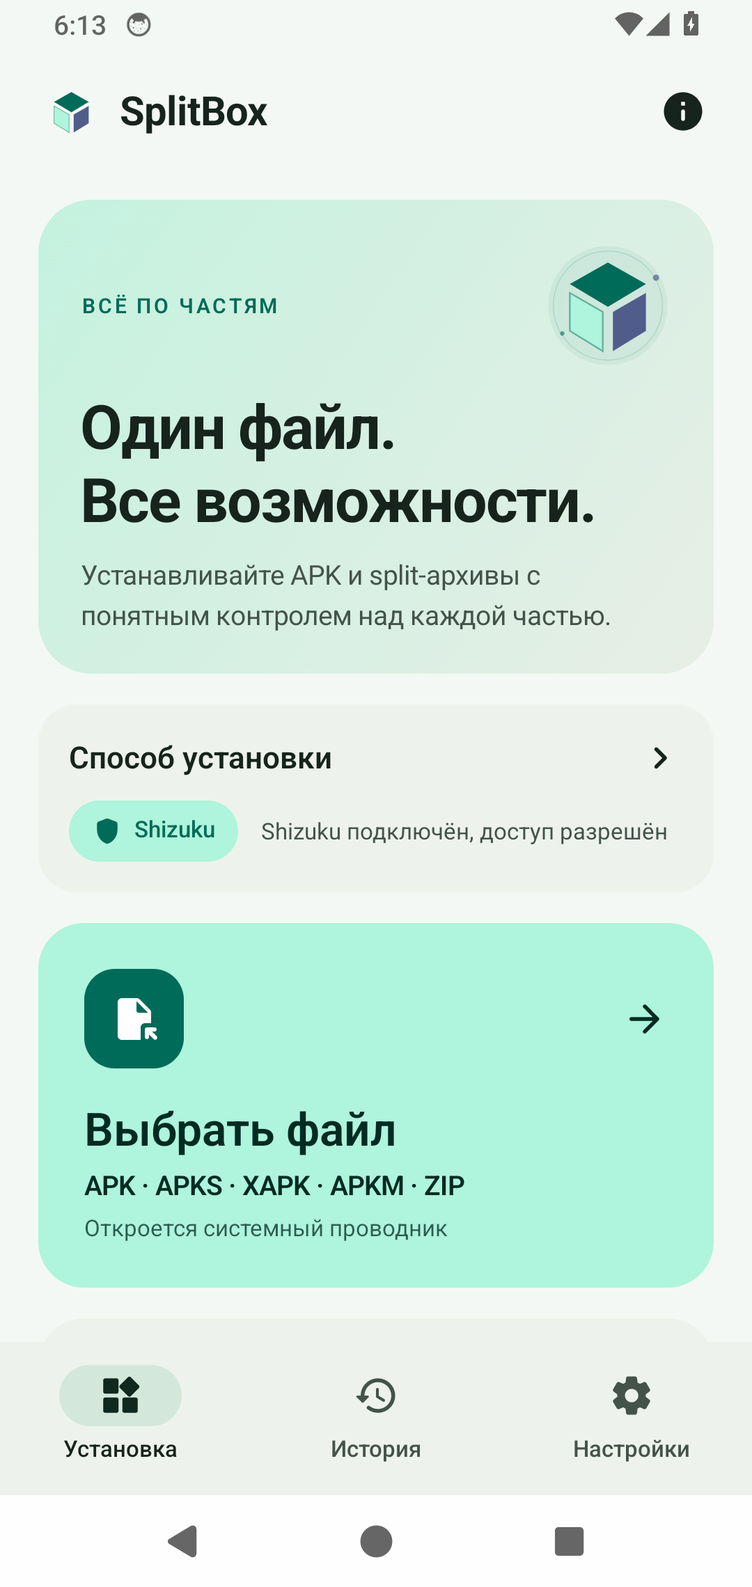
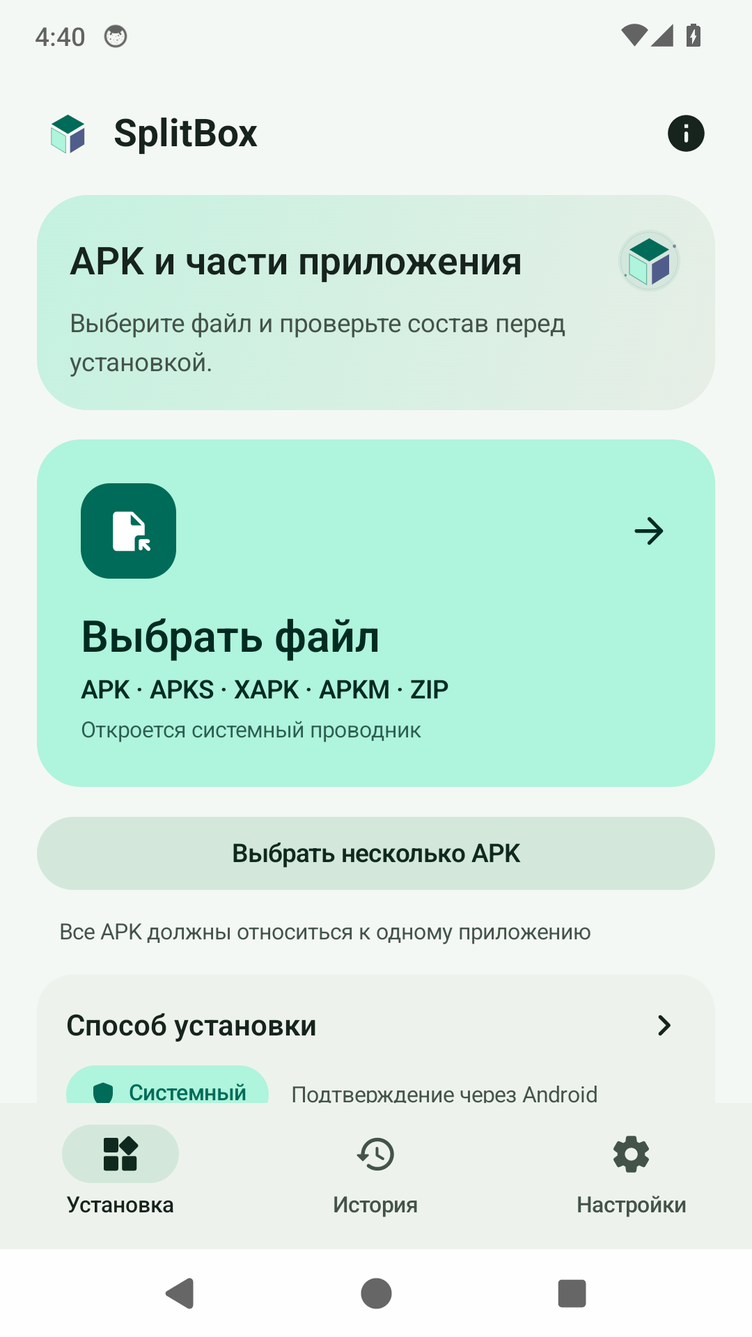
Обновлена документация и результаты проверок релиза 1.1

diff --git a/docs/VERIFICATION.md b/docs/VERIFICATION.md
@@ -1,3 +1,51 @@
+# Проверки SplitBox 1.1
+
+Дата: **14 октября 2026**. Версия **1.1**, `versionCode 5`, Android 14+ (minSdk 34 / target SDK 36). Публичный тег: [v1.1](https://github.com/AnoY606-git/SplitBox/releases/tag/v1.1).
+
+## Автоматические проверки
+
+Полный локальный прогон `:core:test :app:testDebugUnitTest :app:lintDebug :app:lintRelease :app:assembleDebug :app:assembleRelease :fixture:assembleDebug :app:compileBenchmarkKotlin :app:compileProfileGenerationKotlin` — **BUILD SUCCESSFUL**. Прошли **203 JVM-теста** (core 77, app 126) и **12 Python-тестов**, без failures/errors/skipped. Lint debug/release: **0 ошибок / 5 прежних предупреждений** в каждом варианте (`UseKtx` × 4, `ObsoleteSdkInt` × 1). Новых зависимостей и Android permissions нет.
+
+Для новых функций добавлены проверки общих лимитов staging, одинаковых имён, принадлежности и symlinks, отмены, выбора/поиска, пересечения фильтров истории, отчёта, числовых версий Long, SDK-деклараций разрешений, неполных старых данных и отмены запросов инспектора. Независимое ревью и Android QA выявили и помогли устранить три регрессии: канонизация `/data/user/0` → `/data/data`, допустимые неположительные `maxSdkVersion` и совпадение имени разрешения со служебным ключом списка. Две первые воспроизводились падающими регрессионными тестами, последняя проверена настоящим APK с разрешением `search`.
+
+## Подписанный APK
+
+- Размер: **2 734 556 байт** (около 2,61 МиБ).
[2 lines of base64/hex data omitted]
+- `apksigner verify` и APK audit: package/version/SDK, точный набор разрешений, ZIP CRC, alignment и legal assets. INTERNET и MANAGE_EXTERNAL_STORAGE отсутствуют.
+
+## Android 14: проверка приложения
+
+Использован отдельный AOSP API 34 x86_64 AVD `splitbox-1-1-api34`, KVM, 2 CPU / 2048 MiB RAM, 1080×1920 / density 420. Личный Waydroid не использовался. Исходно установлен публичный APK 1.0 (сборка 4), создана реальная успешная System-установка и запись истории. Обновление на подписанную 1.1 прошло без удаления данных; история сохранилась. Исправления проверялись на R8 release APK с постоянным сертификатом. После финальных сценариев crash buffer пуст; Package Manager подтвердил versionName 1.1 / versionCode 5.
+
+| Сценарий | Результат |
+| --- | --- |
+| Множественный выбор SAF | Через кнопку «Выбрать несколько APK» отмечены base и density, подготовлен и установлен весь набор |
+| Несколько APK из внешнего приложения | Base + density с одинаковым displayName, повторный URI: подготовлены ровно 2 APK; файлы не перезаписывают друг друга |
+| Только ClipData | ACTION_SEND_MULTIPLE без EXTRA_STREAM корректно импортирует оба APK |
+| Холодное восстановление набора | После force-stop сохранены оба APK и выбор; SHA-256 единственного исходного файла для набора не заявляется |
+| Разные приложения в наборе | Подготовка отклонена до установки, backend не запускается |
+| Поиск частей + выбранные | Поиск `xxhdpi` показывает 1 из 2, закреплённый установочный счётчик остаётся 2 из 2 |
+| System | Реальная установка base + density через Android подтверждена Package Manager |
+| Shizuku | Shizuku 13.6.0.r1086, shell UID, явное разрешение: реальная установка base + density завершена, результат сохранён в истории |
+| Сведения о пакете | Входные версии 3/2/1 при установленной 2 показаны как обновление / та же версия / версия ниже; поиск разрешений, SDK 23 и maxSdk 32; после cold restore сохранились также maxSdk 0/-1 |
+| Граничное имя разрешения | APK с декларацией `search`: строка отображается одновременно с поиском, сбоя duplicate key нет |
+| История | Реальная отмена Android дала отказ; фильтры статуса/способа, пустой результат и сброс работают |
+| Крупный шрифт | При 150% доступны основная кнопка установки, прокрутка и закрытие инспектора, фильтры истории; после проверки масштаб возвращён к 100% |
+| Отчёт | После предпросмотра и копирования весь текст (293 символа) точно совпал при вставке через Android clipboard |
+
+Проверки используют собственные маленькие APK и отдельный testOnly sender; эти вспомогательные приложения не входят в релиз или архив исходников. Реальный `PermissionSnapshot` дополнительно проверен холодным восстановлением APK с известными декларациями; nullable старые данные покрыты JVM-моделью и ревью codec.
+
+## Пределы проверки
+
+Реальный Magisk/KernelSU, физический ARM, Android 15/16, OEM/work profiles, многогигабайтные пакеты и 16 KiB runtime не испытывались в этом выпуске. Root использует существующий проверяемый протокол, но проверка на AOSP не заменяет root manager на телефоне. Новый benchmark-прогон производительности не выполнялся; числа прежнего выпуска ниже остаются историческими. Уменьшение копирования набора APK следует из потокового пути без промежуточного ZIP и не объявляется измеренным ускорением на всех устройствах.
+
+Статус публикационного CI доступен в [Actions](https://github.com/AnoY606-git/SplitBox/actions/workflows/ci.yml). Воспроизведение — [TESTING](TESTING.md), контракты — [ARCHITECTURE](ARCHITECTURE.md).
+
+<details>
+<summary>Архив: проверки SplitBox 1.0</summary>
+
 # Проверки SplitBox 1.0
 
 ## Сборка 4: исправления после аудита
@@ -108,5 +156,7 @@ JVM-проверки охватывают архивы, metadata/targeting, со
 Установка через реальный Magisk/KernelSU, физический ARM, Android 15/16 runtime, OEM/work profiles, многогигабайтный stress test и runtime 16 KiB не проверены. 16 KiB alignment APK/ELF проверяется статически при упаковке и не доказывает работу на соответствующем ядре. При шрифте 200% выполнена визуальная проверка, но речь и полный маршрут TalkBack на устройстве не проверялись; семантика этапов/заголовков проверена по коду.
 
 Статус каждого GitHub-прогона доступен в [Actions](https://github.com/AnoY606-git/SplitBox/actions/workflows/ci.yml). Локальные проверки и эмуляторные числа не заменяют испытания на реальных устройствах. [TESTING](TESTING.md) описывает воспроизведение, [ARCHITECTURE](ARCHITECTURE.md) — контракты сохранения/восстановления и честный UNKNOWN без автоматического повторного commit.
+
+</details>
 
 </details>

diff --git a/docs/ARCHITECTURE.md b/docs/ARCHITECTURE.md
@@ -6,11 +6,11 @@
 
 ```mermaid
 flowchart TD
-  URI[SAF / VIEW / SEND] --> ACT[MainActivity]
+  URI[SAF / VIEW / SEND / SEND_MULTIPLE] --> ACT[MainActivity]
   ACT --> VM[SplitBoxViewModel]
   UI[Compose UI] <--> VM
-  VM --> ST[PackageStager / SourceCopier]
-  ST --> CORE[ArchivePreparer / SplitSelector]
+  VM --> ST[PackageImporter / Stagers / SourceCopier]
+  ST --> CORE[ArchivePreparer / StagedApkPreparer / SplitSelector]
   VM --> SNAP[PreparedSnapshot / RevisionedSaveQueue]
   VM --> VALID[SelectionValidator: Default]
   VM --> REG[BackendRegistry]
@@ -35,6 +35,14 @@ ViewModel собирает зависимости, управляет текущ
 Каждая операция владеет уникальным закрытым `workDir`. Для raw APK core повторно использует только собственный `workDir/source.bin`: обычный файл без symlink, с проверенной canonical принадлежностью. Этот source остаётся доступен для checkpoint и permission recovery. Внешний raw source копируется в выходной каталог; core не удаляет входной файл. Архивы проходят обычную распаковку с проверками paths, CRC, дубликатов, размеров, metadata и принадлежности OBB. Повторное использование файла не отменяет manifest, signature и selection checks.
 
 `CacheSizeIndex.bytes()` возвращает последнее значение из памяти. Полный `rescan`, обновление одного каталога и удаление выполняются на IO, под общей синхронизацией: старый scan не должен перезаписать более новое изменение индекса. Обновляется каталог текущей операции, а не всё дерево после каждого действия. Начальное сканирование запускается независимо от восстановления journal: медленный cache не задерживает доставку результата установки. Значение индекса отражает известное состояние; внешние изменения обнаруживаются при следующем сканировании.
+
+## Импорт отдельных APK
+
+`ImportSelection` нормализует точные URI, сохраняет порядок и ограничивает множественный запрос 128 уникальными источниками. Один URI проходит обычный путь APK/архива. Для набора `PackageImporter` вызывает `MultiApkStager`: каждый поток копируется один раз с оставшимся общим байтовым бюджетом. Имена provider используются только для отображения; физические файлы имеют фиксированные имена внутри уникального рабочего каталога.
+
+`StagedApkPreparer` проверяет принадлежность файлов, отсутствие символических ссылок и повторов, затем использует общий `ApkInspector`, identity validation и `SplitSelector`. Вложенные архивы в таком наборе не распаковываются. Подписи проверяются обычным путём. Промежуточного ZIP нет; SHA-256 исходного файла для набора не показывается, поскольку единственного файла нет.
+
+READY checkpoint хранит все staged paths. Если `source.bin` отсутствует, permission journal и восстановление используют сохранённый базовый APK. Набор относится к одному приложению: очередь установок разных пакетов здесь не создаётся.
 
 ## Выбор частей и READY checkpoint
 
@@ -85,6 +93,14 @@ Cold restore использует запись и уже сохранённый 
 
 Экспорт OBB через `runObbExport` сохраняет исходную фазу, включая UNKNOWN и его журнал. В `finally` для того же пакета и выбора сверяются актуальные результаты очереди и валидатора; поздний итог Android не заменяется старым снимком. Отмена COPYING прерывает локальный Job до обращения к журналу установки. Успех, ошибка и отмена экспорта проходят один путь восстановления.
 
+## Поиск, история и сведения о пакете
+
+Поиск частей и переключатель «только выбранные» фильтруют представление `SplitPresentation`, не меняя `selectedPaths`, валидацию или общий счётчик установки. Запрос сохраняется при смене вкладок и сбрасывается при новом `workDir`. `HistoryPresentation` объединяет поиск, статус и способ установки через AND; `success=null` остаётся отдельным неизвестным исходом. Отчёт строится из выбранной записи и версии SplitBox. Диалог сохраняет неизменяемый текст предпросмотра, который копируется только явным действием пользователя.
+
+`BinaryManifestReader` читает Android-декларации разрешений и их ограничения SDK. `ApkMetadata.requestedPermissions=null` означает неизвестные данные, а пустой список — успешный разбор без деклараций. `PermissionSnapshot` сохраняет это различие: отсутствующее или повреждённое поле старого checkpoint не превращается в «разрешений нет».
+
+`PackageInspectionLoader` получает установленную версию через интерфейс `InstalledPackageReader` и собирает разрешения выбранных APK на IO. Сравниваются `Long` versionCode; `NameNotFoundException` означает «не установлено или недоступно для проверки» из-за Android package visibility. Результат не обещает совместимость подписи или возможность downgrade. Открытие диалога запускает новую проверку; закрытие, смена пакета, выбора или фазы отменяет эффект. После синхронного запроса Package Manager проверяется отмена, чтобы старый ответ не появился в новом диалоге.
+
 ## Общие инварианты
 
 - Входные URI и архивы недоверенные; имена архива не подставляются в shell, пути остаются внутри staging.
@@ -94,3 +110,7 @@ Cold restore использует запись и уже сохранённый 
 - Проверки модели не доказывают поведение конкретного OEM, root manager, физического ARM или 16 KiB runtime.
 
 Карта файлов — [путеводитель](README.md); проверки контрактов — [TESTING](TESTING.md); методика измерений — [benchmark/README](../benchmark/README.md).
+
+## Основания возможностей 1.1
+
+При выборе функций изучены первичные репозитории [SAI](https://github.com/Aefyr/SAI), [InstallerX Revived](https://github.com/wxxsfxyzm/InstallerX-Revived) и [App Manager](https://github.com/MuntashirAkon/AppManager). Для SplitBox выбраны связанные с установкой сценарии: прямой набор APK, сведения до установки, поиск и отчёт. Реализация собственная; код других приложений не переносился. Ограничения видимости установленных пакетов учитывают [Android package visibility](https://developer.android.com/training/package-visibility/declaring).

diff --git a/docs/RELEASING.md b/docs/RELEASING.md
@@ -2,7 +2,7 @@
 
 ## Версия и проверки
 
-`gradle.properties` — единственный источник версии. Текущее приложение: versionName `1.0`, versionCode `4`. У каждого выпускаемого обновления повышайте versionCode. versionName допускает `major.minor`, `major.minor.patch` и суффикс prerelease. Обновляйте CHANGELOG и выполняйте команду из [TESTING](TESTING.md) в чистом checkout.
+`gradle.properties` — единственный источник версии. Текущее приложение: versionName `1.1`, versionCode `5`. У каждого выпускаемого обновления повышайте versionCode. versionName допускает `major.minor`, `major.minor.patch` и суффикс prerelease. Обновляйте CHANGELOG и выполняйте команду из [TESTING](TESTING.md) в чистом checkout.
 
 CI (`.github/workflows/ci.yml`) выполняет source checks, Python/JVM tests, lint, debug/unsigned release и fixture build; проверяет APK policy и сохраняет результаты на 14 дней. Actions закреплены на commit SHA, permissions ограничены contents:read, checkout не сохраняет credentials. CI не публикует Release и не получает production signing secrets.
 
@@ -45,7 +45,7 @@ python3 scripts/package.py --apk app/build/outputs/apk/release/app-release-unsig
 
 `SHA256SUMS` описывает только артефакты текущей команды: source ZIP и, при явном APK, этот APK и `<имя APK>.signature.txt`. Старые файлы из той же папки не подхватываются. Source ZIP включает Wrapper/JAR, CI, исходники и пять binary fixtures; SDK, keys, caches, logs и host metadata исключены. ZIP entries нормализованы для повторяемой упаковки исходников; побитовая воспроизводимость APK не заявляется.
 
-Для каждого релиза используйте отдельную папку. В публичную поставку включите подписанный APK, соответствующие исходники, signature record, SHA256SUMS и заметки с проверенными сценариями/ограничениями. Сохраните LICENSE/NOTICE/авторство и уведомления зависимостей. Перед публикацией отдельно проверьте установку и обновление на устройстве. В заметках разделяйте настоящие APK fixtures и синтетические UI-наборы, emulator smoke и измерения на физическом устройстве. Не заявляйте physical ARM/Magisk/16 KiB runtime или выигрыш производительности без соответствующего прогона и исходных результатов. Версия `1.0` / code `4`, GPL-3.0-only и авторство AnoY606-git должны совпадать в APK, исходниках и документации.
+Для каждого релиза используйте отдельную папку. В публичную поставку включите подписанный APK, соответствующие исходники, signature record, SHA256SUMS и заметки с проверенными сценариями/ограничениями. Сохраните LICENSE/NOTICE/авторство и уведомления зависимостей. Перед публикацией отдельно проверьте установку и обновление на устройстве. В заметках разделяйте настоящие APK fixtures и синтетические UI-наборы, emulator smoke и измерения на физическом устройстве. Не заявляйте physical ARM/Magisk/16 KiB runtime или выигрыш производительности без соответствующего прогона и исходных результатов. Версия `1.1` / code `5`, GPL-3.0-only и авторство AnoY606-git должны совпадать в APK, исходниках и документации.
 
 ## Репозиторий и теги
 
@@ -60,3 +60,5 @@ git status --short
 Для изменения используйте свою Git identity и отдельную ветку. После проверок тег `vVERSION` должен указывать на тот же commit, из которого упакованы исходники. Публикуйте APK, source ZIP, signature record и SHA256SUMS вместе с описанием изменений и ограничений. Не загружайте keystore или signing secrets в репозиторий, Release assets и CI artifacts. Создание tag/Release выполняется отдельно и не является действием скрипта упаковки.
 
 Обновление с прежним versionName `1.0` и новым versionCode `4` опубликовано отдельным тегом `v1.0-build4`. Существующие теги и файлы старого релиза не заменяются. Для следующих сборок используйте новый уникальный тег и явно указывайте номер сборки в заголовке релиза.
+
+Релиз 1.1 использует тег `v1.1`, versionCode `5` и файлы `SplitBox-1.1.apk`, `SplitBox-1.1-source.zip`, `SplitBox-1.1.apk.signature.txt`, `SHA256SUMS`. Обновление с 1.0 сохраняет постоянный сертификат издателя.

diff --git a/docs/README.md b/docs/README.md
@@ -1,6 +1,6 @@
 # Путеводитель разработчика
 
-SplitBox 1.0 — Android-приложение с отдельным JVM-ядром. Для первой задачи достаточно собрать debug, пройти путь импорта собственного fixture и определить слой изменения по таблице ниже.
+SplitBox 1.1 — Android-приложение с отдельным JVM-ядром. Для первой задачи достаточно собрать debug, пройти путь импорта собственного fixture и определить слой изменения по таблице ниже.
 
 ## Порядок знакомства
 
@@ -20,8 +20,11 @@ SplitBox 1.0 — Android-приложение с отдельным JVM-ядро
 | Вкладки, тема, окно о приложении | [SplitBoxApp](../app/src/main/java/dev/splitbox/app/ui/SplitBoxApp.kt) |
 | Предпросмотр и список splits | [InstallScreen](../app/src/main/java/dev/splitbox/app/ui/InstallScreen.kt) |
 | Настройки/история | [SettingsScreen](../app/src/main/java/dev/splitbox/app/ui/SettingsScreen.kt), [HistoryScreen](../app/src/main/java/dev/splitbox/app/ui/HistoryScreen.kt) |
+| Сведения о версии и разрешениях | [PackageInspectorDialog](../app/src/main/java/dev/splitbox/app/ui/PackageInspectorDialog.kt), [PackageInspectionLoader](../app/src/main/java/dev/splitbox/app/inspector/PackageInspectionLoader.kt), [PermissionSnapshot](../app/src/main/java/dev/splitbox/app/data/PermissionSnapshot.kt) |
+| Фильтры и отчёт истории | [HistoryPresentation](../app/src/main/java/dev/splitbox/app/ui/HistoryPresentation.kt) |
 | Модели UI и настроек | [Models](../app/src/main/java/dev/splitbox/app/model/Models.kt) |
 | Копирование URI, подписи и staging | [PackageStager](../app/src/main/java/dev/splitbox/app/data/PackageStager.kt), [SourceCopier](../app/src/main/java/dev/splitbox/app/data/SourceCopier.kt) |
+| Импорт нескольких APK | [ImportSelection](../app/src/main/java/dev/splitbox/app/data/ImportSelection.kt), [MultiApkStager](../app/src/main/java/dev/splitbox/app/data/MultiApkStager.kt), [PackageImporter](../app/src/main/java/dev/splitbox/app/data/PackageImporter.kt), [StagedApkPreparer](../core/src/main/kotlin/dev/splitbox/core/StagedApkPreparer.kt) |
 | Индекс размера кэша | [CacheSizeIndex](../app/src/main/java/dev/splitbox/app/data/CacheSizeIndex.kt) |
 | Очередь сохранения и проверка выбора | [RevisionedSaveQueue](../app/src/main/java/dev/splitbox/app/data/RevisionedSaveQueue.kt), [SelectionValidator](../app/src/main/java/dev/splitbox/app/data/SelectionValidator.kt) |
 | Форматы архивов и совместимость | [ArchivePreparer](../core/src/main/kotlin/dev/splitbox/core/ArchivePreparer.kt), [SplitSelector](../core/src/main/kotlin/dev/splitbox/core/SplitSelector.kt) |

diff --git a/CHANGELOG.md b/CHANGELOG.md
@@ -1,5 +1,16 @@
 # Изменения
 
+## 1.1 — 2026-10-14
+
+- Добавлен прямой импорт до 128 отдельных APK одного приложения через системный выбор файлов и «Поделиться». Каждый файл копируется один раз, с общим лимитом размера, проверкой версии, состава и подписей; промежуточный ZIP не создаётся.
+- На главном экране выбор файлов доступен раньше: сокращено приветствие, действия перемещены выше карточки способа установки.
+- Добавлен поиск по частям пакета. Он работает вместе с фильтром выбранных и не изменяет состав установки.
+- История получила фильтры по результату и способу установки, счётчик совпадений, сброс фильтров и просмотр отчёта перед копированием. Неподтверждённые результаты выделены отдельно.
+- В сведениях о подготовленном пакете доступны сравнение числовой версии с установленной и поиск разрешений, объявленных выбранными APK. Ограничения видимости Android и неполные сведения показываются явно.
+- Во время ревью исправлены пограничные случаи канонизации Android-каталогов, деклараций разрешений с нулевым/отрицательным maxSdkVersion и ключей строк инспектора.
+- Сохранены Android 14+, System/Root/Shizuku, локальная обработка и отсутствие рекламы. Новые зависимости и разрешения не добавлены.
+- Версия приложения `1.1`, `versionCode 5`; обновление использует постоянный сертификат издателя.
+
 ## 1.0, сборка 4 — 2026-10-14
 
 - Автовыбор учитывает общую архитектуру нативных библиотек всех модулей, включая библиотеки в основных APK.

diff --git a/docs/BUILDING.md b/docs/BUILDING.md
@@ -11,7 +11,7 @@
 | Android SDK | platform 36, build-tools 36.0.0, platform-tools |
 | Python | 3 для release scripts; 3.12+ для Linux bootstrap |
 
-Приложение: minSdk 34 / Android 14+, compile/target SDK 36. `gradle.properties` содержит единственный источник versionName/versionCode: сейчас `1.0` / `4`.
+Приложение: minSdk 34 / Android 14+, compile/target SDK 36. `gradle.properties` содержит единственный источник versionName/versionCode: сейчас `1.1` / `5`.
 
 ## С установленными JDK и SDK
 
